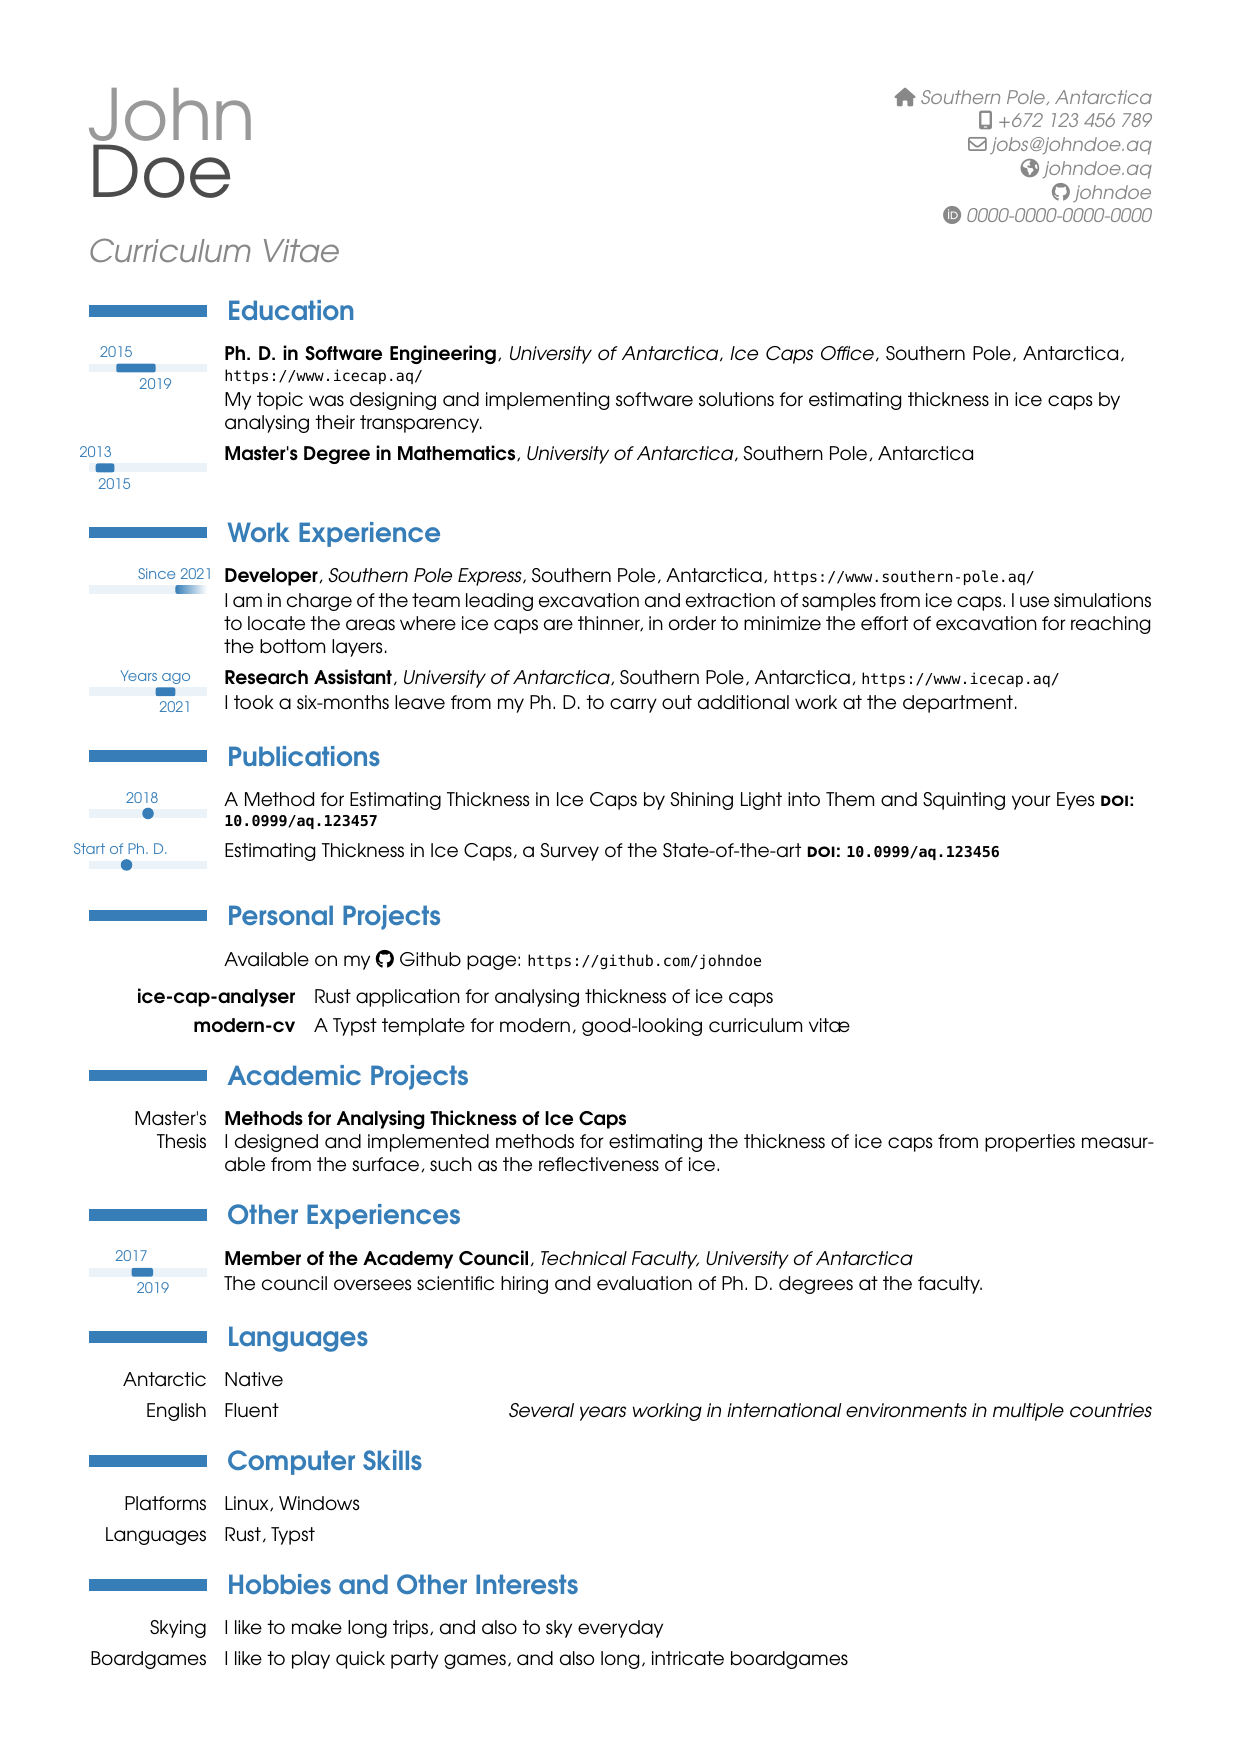
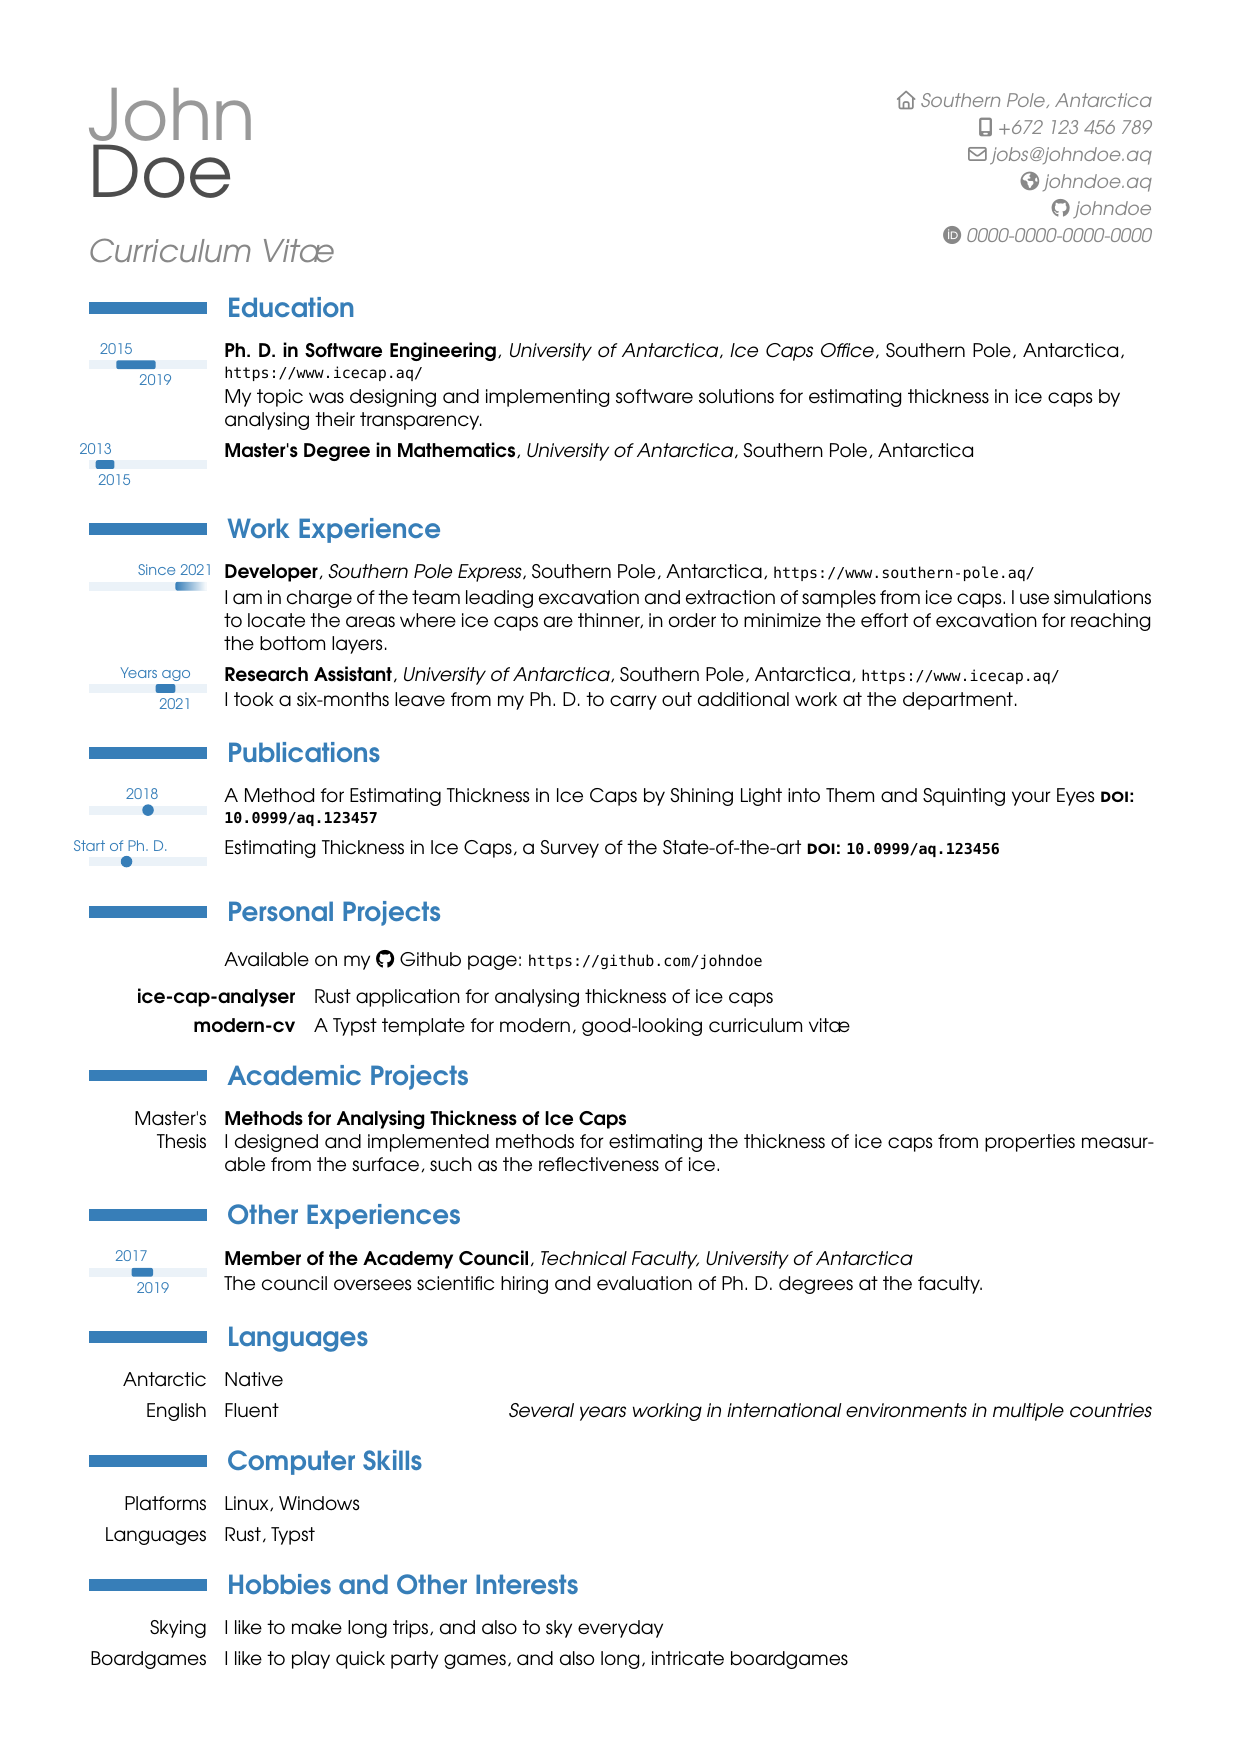
build: Update dependencies

diff --git a/CHANGELOG.md b/CHANGELOG.md
@@ -12,6 +12,7 @@ and this project adheres to [Semantic Versioning](https://semver.org/spec/v2.0.0
 
 - Avoid drawing timeline in publications when date is none
 - Change spelling of curriculum vitae to curriculum vitæ
+- Update Font Awesome to version 7.2.0
 
 ### Added
 
